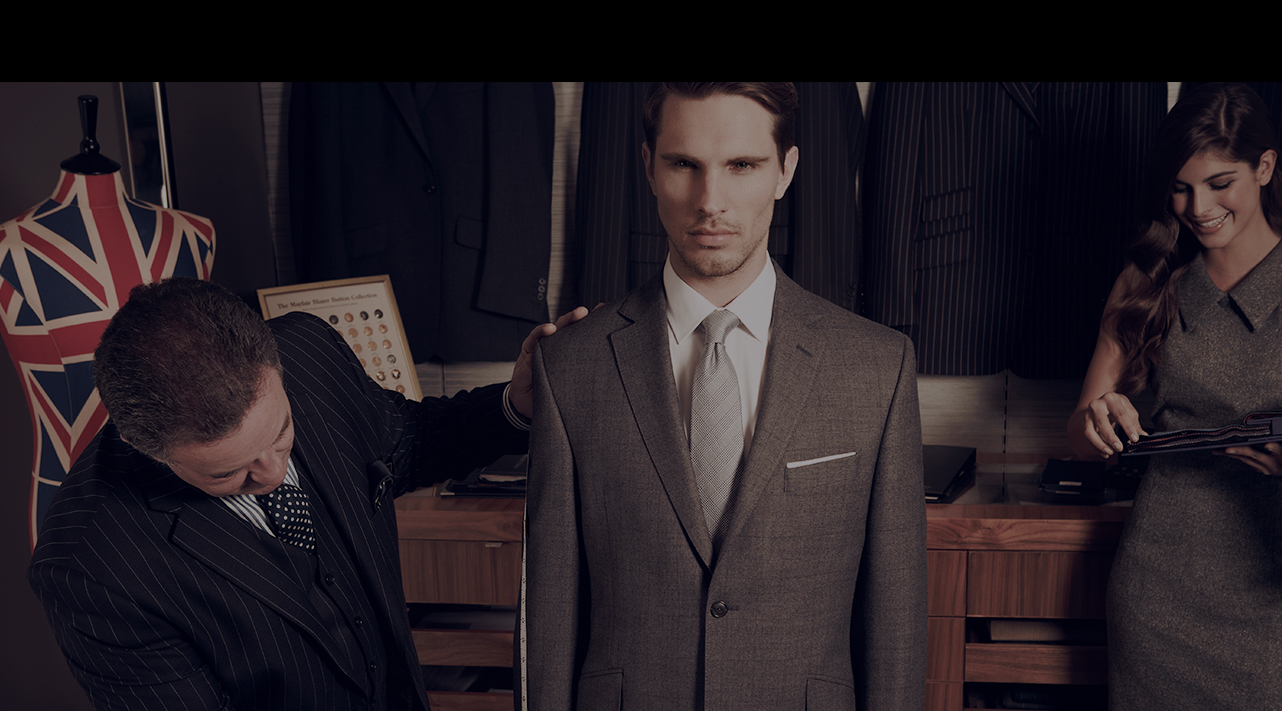
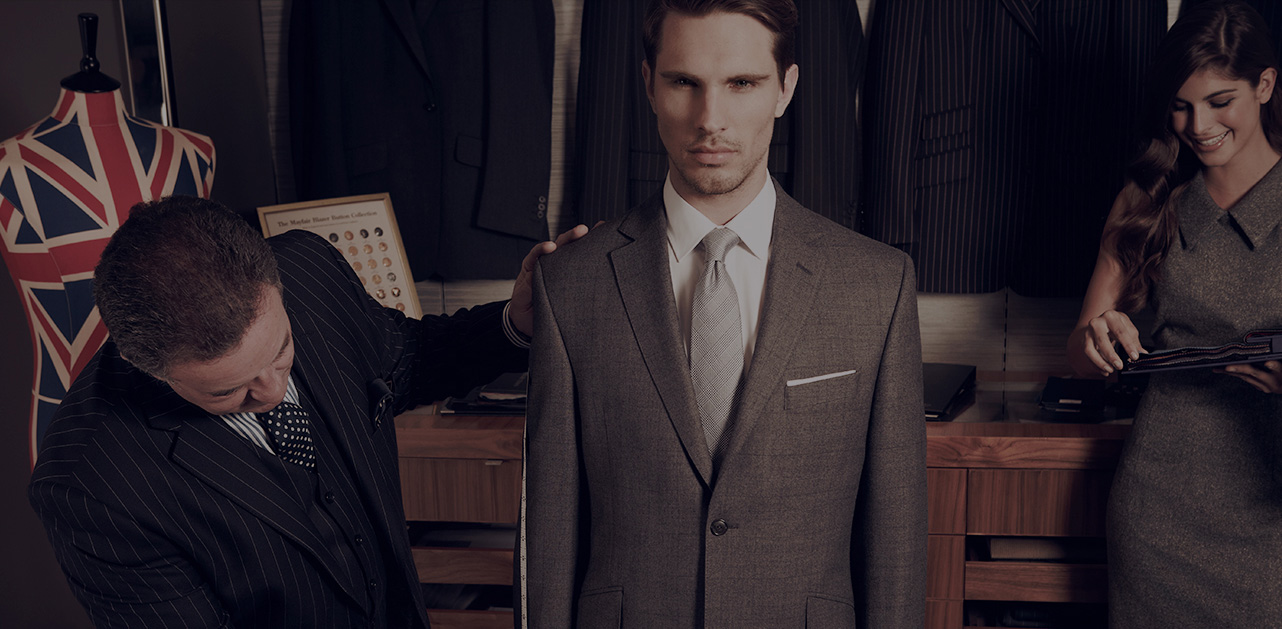
Text changes

diff --git a/src/_styles/pages/_home.scss b/src/_styles/pages/_home.scss
@@ -217,7 +217,6 @@
 
         @include mq(sm) {
             max-height: 33.34vw;
-            overflow: hidden;
             display: flex;
             position: relative;
             border: 3vw solid $white;
@@ -250,17 +249,25 @@
         &__image-container {
             width: 50%;
             height: 100%;
+            position: relative;
         }
 
         &__image {
             display: none;
 
             @include mq(sm) {
-                @include img($imgwidth: auto);
-
                 display: block;
                 position: absolute;
-                left: 60%;
+                left:0;
+                top:-1px;
+                bottom:0;
+                right: 0;
+                text-align: right;
+
+                img {
+                    height: 100%;
+                    width: auto;
+                }
             }
         }
     }
@@ -323,7 +330,7 @@
         }
 
         &__brands {
-            background: url('/images/home/bottom-left-down.jpg') no-repeat right bottom;
+            background: url('/images/home/bottom-left-down.jpg') no-repeat right bottom / cover;
 
             @include mq(sm) {
                 width: 100%;
@@ -335,7 +342,6 @@
                 display: flex;
                 justify-content: center;
                 align-items: center;
-                background: $lightGray;
                 width: 50%;
                 padding: 20px 10px;
 
@@ -353,7 +359,7 @@
         }
 
         &__referals {
-            background: url('/images/home/bottom-right-up.jpg') no-repeat left top;
+            background: url('/images/home/bottom-right-up.jpg') no-repeat left top / cover;
             display: flex;
             justify-content: flex-end;
 
@@ -364,7 +370,6 @@
 
             &__data {
                 width: 50%;
-                background: $lightGray;
                 display: flex;
                 justify-content: center;
                 align-items: center;

diff --git a/src/_styles/pages/about.scss b/src/_styles/pages/about.scss
@@ -1,5 +1,6 @@
 .about {
     overflow: hidden;
+
     &__hero {
         overflow: hidden;
         position: relative;
@@ -195,7 +196,7 @@
         }
 
         &__image {
-            @include img($ratio: 60%, $imgwidth: auto, $imgheight: 100%)
+            @include img($ratio: 60%, $imgwidth: auto, $imgheight: 100%);
 
             img {
                 @include mq(sm) {
@@ -320,14 +321,18 @@
         }
 
         &__image {
-            @include img($ratio: 15%, $imgwidth: auto, $imgheight: 100%);
-            display: block;
-            border-radius: 50px;
-            left: 43%;
+            width: 80px;
+            height: 80px;
+            position: relative;
+            overflow: hidden;
+            border-radius: 50%;
+            margin: 0 auto 20px;
 
-            @include mq(sm) {
-                left: 48%;
-                @include img($ratio: 5%, $imgwidth: auto, $imgheight: 100%);
+            img {
+                position: absolute;
+                top: 0;
+                left: 0;
+                width: 100%;
             }
         }
 

diff --git a/src/_styles/pages/referidos.scss b/src/_styles/pages/referidos.scss
@@ -5,11 +5,10 @@
         overflow: hidden;
 
         &__container {
-            background: url('../images/referidos/hero.jpg') no-repeat center center / cover;
+            background: url('../images/referidos/hero.jpg') no-repeat left center / cover;
             height: 100vw;
 
             @include mq(sm) {
-                background: url('../images/referidos/hero.jpg') no-repeat right center / 140%;
                 height: 40vw;
             }
         }
@@ -46,7 +45,7 @@
                 width: 40vw;
                 top: 16vw;
                 text-align: center;
-                left: 10vw;
+                left: 5vw;
                 background: none;
             }
 
